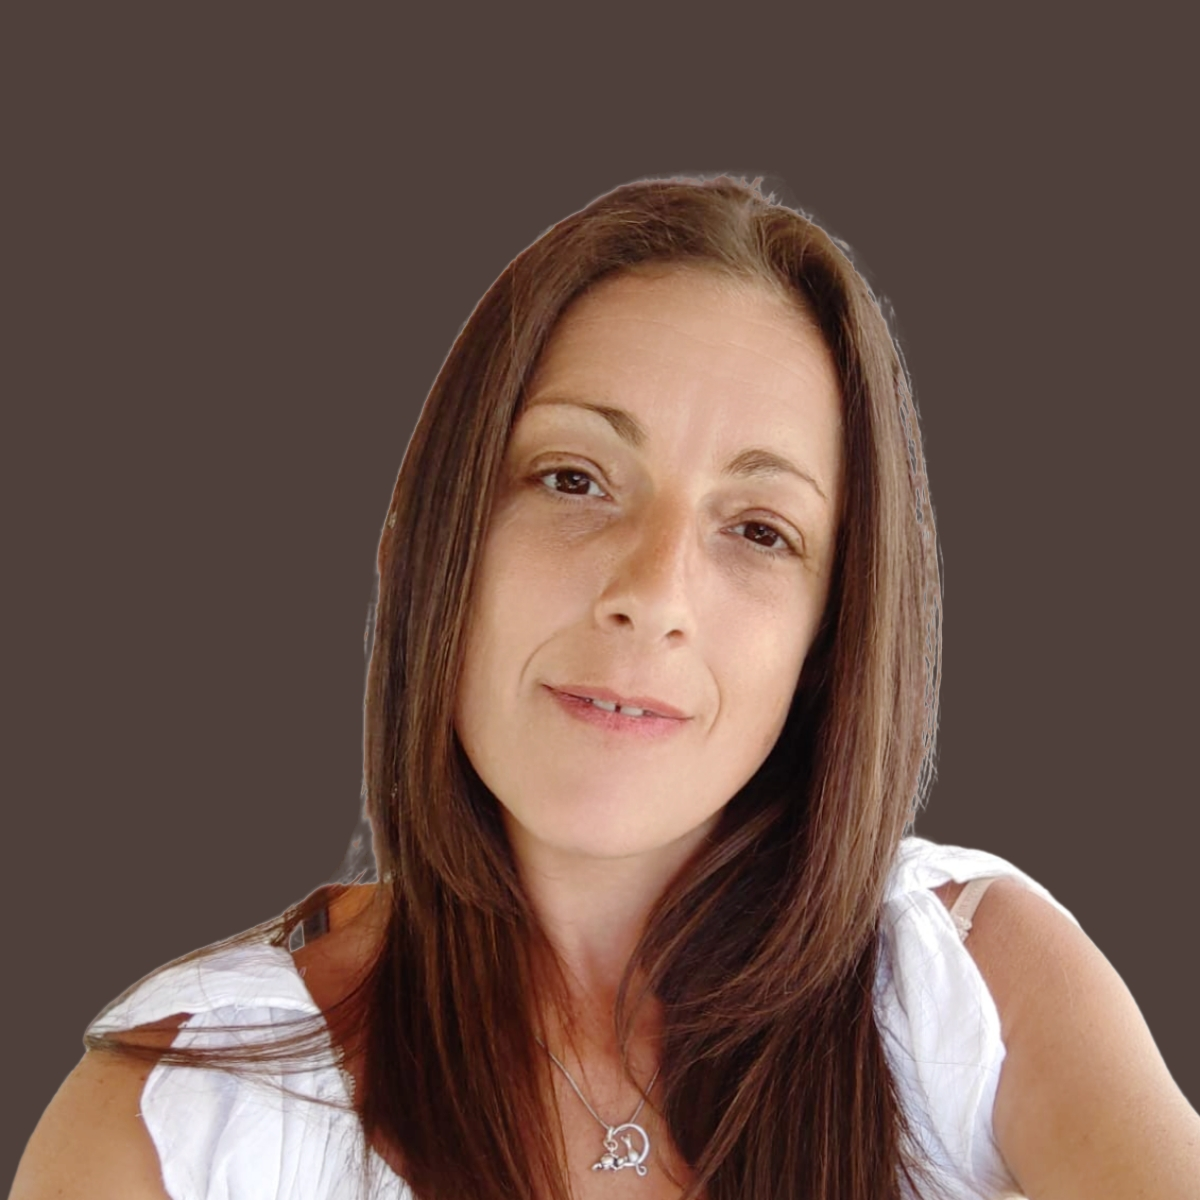
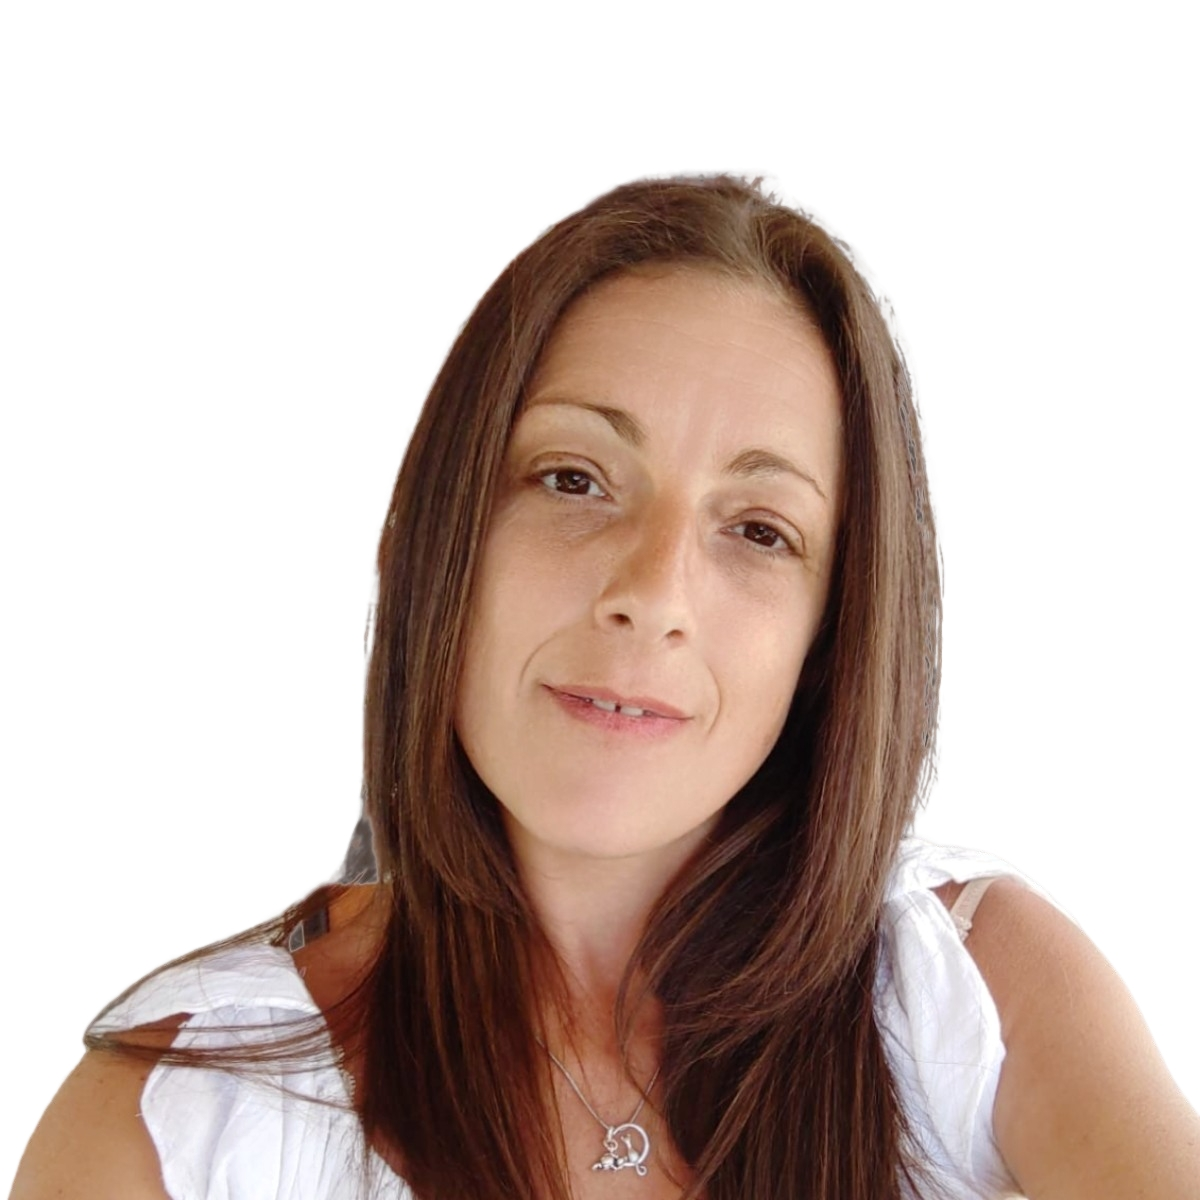
feat: update profile image, update header

diff --git a/.slicemachine/prismicio.d.ts b/.slicemachine/prismicio.d.ts
@@ -34,7 +34,7 @@ type AboutPageDocumentDataSlicesSlice = AboutTitleBlockSlice | RectTextBlockSlic
  *
  * @typeParam Lang - Language API ID of the document.
  */
-export type AboutPageDocument<Lang extends string = string> = prismicT.PrismicDocumentWithoutUID<Simplify<AboutPageDocumentData>, "about_page", Lang>;
+export type AboutPageDocument<Lang extends string = string> = prismicT.PrismicDocumentWithUID<Simplify<AboutPageDocumentData>, "about_page", Lang>;
 /** Content for Home Page documents */
 interface HomePageDocumentData {
     /**

diff --git a/components/molecules/AboutContact/about-contact.vue b/components/molecules/AboutContact/about-contact.vue
@@ -14,7 +14,7 @@
       </a>
     </div>
     <div v-if="data.cta" class="cta-content">
-      <a href="/services">
+      <a :href="`/${data.cta.link.field.uid}`">
         <span v-html="data.cta.text" />
       </a>
       <atom-image :src="data.cta.image.filename" :alt="data.cta.image.alt" />
